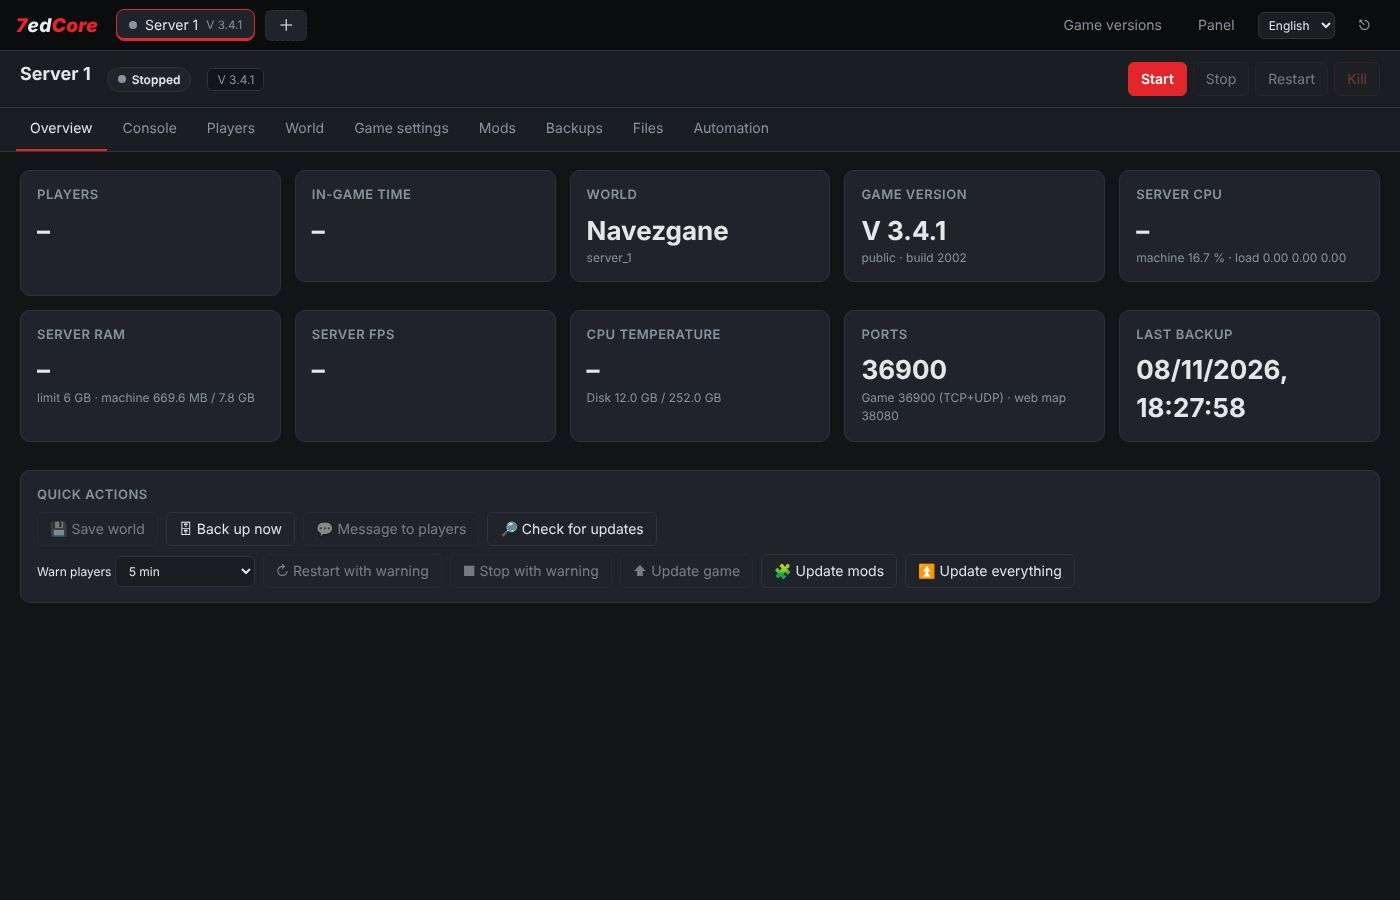
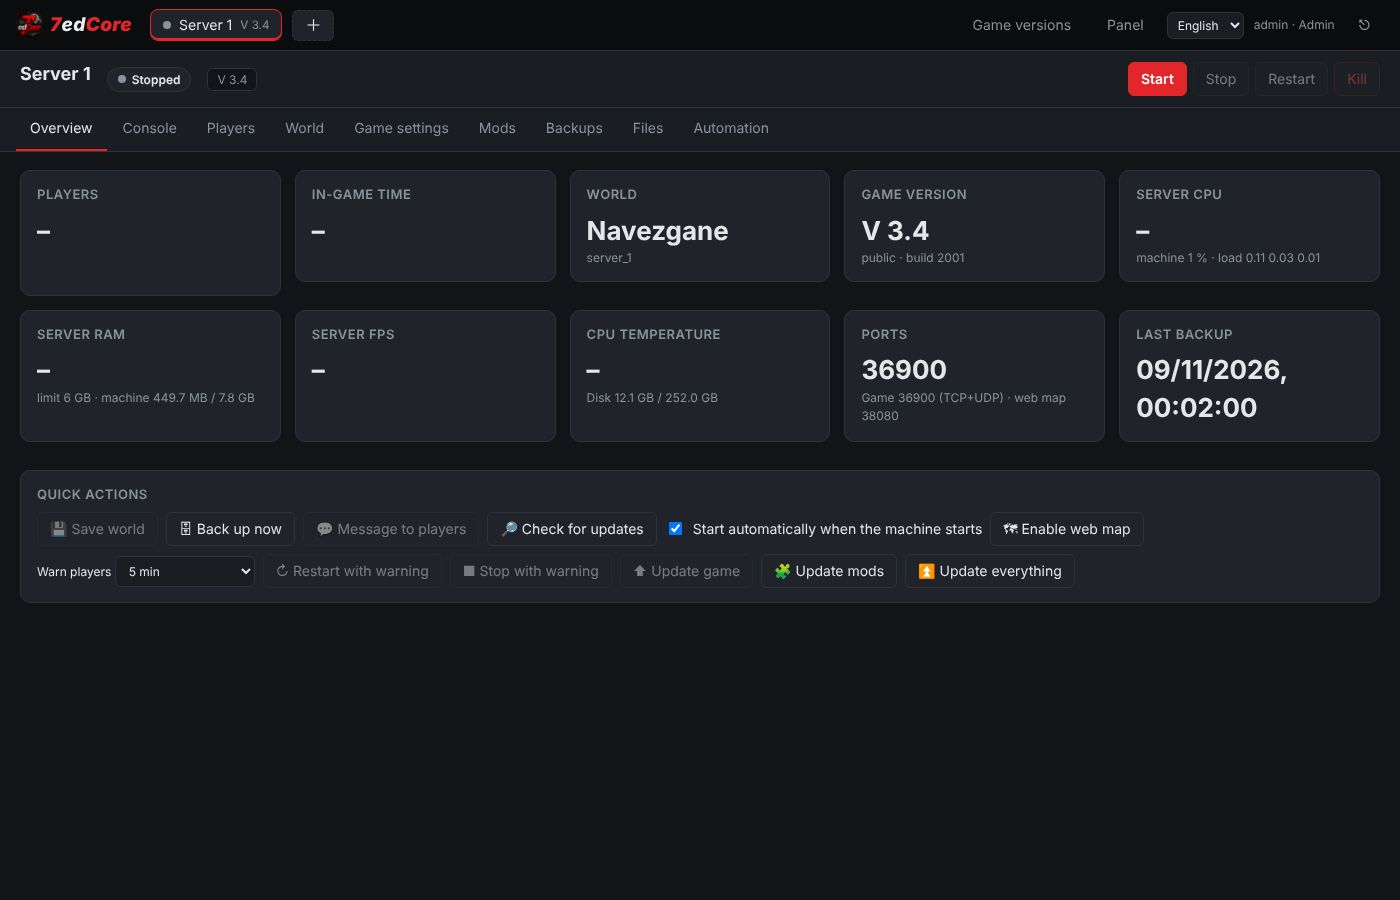
README: full feature overview, repository layout, new screenshots
Claude-Session: https://claude.ai/code/session_0181yVf7NmNxz71g3zciy3b8

diff --git a/README.md b/README.md
@@ -12,36 +12,81 @@ Several servers on one machine, each with its own game version, mods, backups an
 
 ## Features
 
-- **Several servers.** Each server gets its own tab and its own ports, saves, mods, backups and schedule. Use the **+** tab to add one.
-- **Game version per server.** Pick any Steam branch: `public`, `v3.4.0`, `v2.6`, `alpha21.2`, experimental, and so on. Installs are shared between servers.
-- **Save compatibility checks.** 7edCore tracks the game version each save was made with. It warns you before you load a save on a newer version, and it blocks a major-version mismatch or a downgrade unless you confirm it.
-- **Updates for the game and mods.**
-  - Policies: off, notify, hotfixes only, or hotfixes plus minor updates. Major updates are never installed automatically.
-  - Updates are installed only when nobody is online, only while the server is stopped, or at the next scheduled restart.
+### Servers
+- **Several servers on one machine.** Each server has its own tab, ports, saves, mods, backups, schedule and settings. Add one with **＋**. A new server can copy the settings of an existing one.
+- **Game version per server.** Run any Steam branch: `public`, `v3.4.0`, `v2.6`, `alpha21.2`, experimental and so on. Installs are shared between servers and managed on the **Game versions** page (install, update, verify, remove).
+- **Save compatibility checks.** 7edCore records the game version each save was made with. It warns before you load a save on a newer version, and it blocks a major-version jump or a downgrade unless you confirm.
+- **Overview.** Players, in-game time, world, CPU and RAM of the server and the machine, server FPS, chunks, zombies, CPU temperature, disk, ports, last backup and the web map link.
+- **Quick actions.**
+  - Save the world, back up now, or message players.
+  - Restart or stop with an in-game countdown (cancellable).
+  - Update the game, the mods, or both.
+  - Check for updates and enable the web map.
+  - **Start automatically when the machine starts.**
+- **Live console** with commands. **Player list** with kick, ban and promote to admin.
+- **Web map.** Turn on the game's web dashboard with one click and open the map from the panel. Every server has its own map port.
+
+### Game settings
+- **Three levels.** Basic covers world, difficulty, players and party XP range. Detailed has every gameplay option by category. Advanced covers networking, permissions and admin interfaces.
+- **V3 Sandbox Options.** All 165 options are editable directly, with labels and descriptions, so no external code generator is needed. You can paste or copy the `SandboxCode`. Older game versions use the classic `serverconfig.xml` settings.
+- **Raw editor** for `serverconfig.xml`, with XML validation and an automatic `.bak`.
+
+### Difficulty presets
+More than 50 presets. Each one opens a preview that lists every change before anything is applied.
+
+| Group | Presets |
+|---|---|
+| **Game difficulty** (exact values from the PC game) | Scavenger, Adventurer, Nomad, Warrior, True Survivalist, Insane, Standard (reset) |
+| **Zombies** (only zombies: health, damage, speed, senses, rage, block damage, density) | Easy, Medium, Hard, Extreme |
+| **Survival** (food, water, infection, gear wear, traders, death; XP stays generous so it never becomes a grind) | Easy, Medium, Hard, Extreme |
+| **Weapons & loot** | Gun Nut, Scavenged Arsenal (rare high-quality guns from day one that cannot be repaired), Disposable Guns, Ammo Famine |
+| **World threat** (game stage and spawns) | Quiet Countryside, Infested Cities, Wasteland Everywhere (tougher zombie types outside their biomes), Elite Apocalypse |
+| **Challenges** | Weekend Survivor, Loot Goblin, Bookworm, Builder's Paradise, Party Mode, Night Terrors, Horde Week, Siege Builders, Short Fuse, Black Market, Lost Knowledge, Feral Wasteland, Lootbag Only, Stone Age, Hardcore Survivor, Insane Apocalypse |
+| **Official presets of The Fun Pimps** (exact codes) | Almost Creative, Chibi Mode, Dumpster Diver, Legacy Survival, Disaster Film, Caveman Life, Dying World, Undead Matinee, Seven days Later, Madmoles Mayhem, Bite Club |
+
+- **Combine presets.** Add presets with **＋** and drag them into order in the side panel. The one on top wins wherever two presets set the same option. A typical stack is *Insane + Zombies: Extreme + Survival: Hard + Scavenged Arsenal*. The preview shows which preset each change comes from and what was overridden.
+- **Random challenge.** Pick Easy, Medium or Hard and get 3–5 balanced twists from a pool of 40. They can make the game harder, easier or just strange: sprinters, tough dead, black market, no repairs, moon gravity, headshots only and more. Reroll until you like it. Every roll has a seed, so it can be repeated.
+- **Challenge modlets.** Some challenges need more than settings. *Lootbag Only*, for example, empties world containers, so 7edCore generates a small server-side XML modlet for them. Players do not install anything.
+
+### Mods
+- Install from a ZIP (drag and drop, with upload progress), a GitHub repository or a URL.
+- **Find compatible version** picks the newest release made for your server's game version.
+- Updates keep your edited config files. If the author changed the same file, their version is saved next to yours as `*.new`.
+- Enable, disable or delete mods. Automatic or notify-only mod updates are set per server.
+
+### Worlds and configs
+- Choose a map, generate an RWG world (seed and size), or switch between saves. For each save you see the game version it was made with and last played with.
+- **Import a world** from a ZIP, for example a single-player save from `%APPDATA%\7DaysToDie`.
+- **Export and import a server config** (game settings, panel settings, admins), from your PC, from a file stored on the server, or from another server. Ports and data folders of the target server are kept.
+
+### Automation
+- **Scheduler.** Start, stop, restart, update-and-restart and backup rules per weekday, with in-game chat warnings before the action.
+- **Updates.**
+  - Game updates: off, notify, hotfixes, or hotfixes plus minor updates. Major updates are never automatic.
+  - Mod updates: off, notify or auto.
+  - When to install: only when nobody is online, only while stopped, or at the next scheduled restart.
   - A backup is taken before every update.
-- **Mods.**
-  - Install from a ZIP, a GitHub repository or a URL.
-  - *Find compatible version* picks the newest release made for your game version.
-  - Updates keep the files you edited. If the author also changed one of those files, their version is saved next to yours as `*.new`.
-- **Game settings in three levels.** Basic covers the world, difficulty, max players and party XP range. Detailed has every gameplay option, grouped by category. Advanced covers networking and permissions. On V3 and newer, all 165 Sandbox Options are editable directly, with no code generator needed, and the SandboxCode can be copied or pasted.
-- **Difficulty presets and challenges.** 50 presets in groups. Game difficulty has the exact Scavenger to Insane levels of the PC game. Zombies, Survival, Weapons & loot and World threat each come in easy to extreme. Challenges are listed below, and all 11 official presets from The Fun Pimps are included. The challenges are Weekend Survivor, Loot Goblin, Bookworm, Builder's Paradise, Party Mode, Night Terrors, Horde Week, Siege Builders, Short Fuse, Black Market, Lost Knowledge, Feral Wasteland, Lootbag Only, Stone Age, Hardcore Survivor and Insane Apocalypse. Each one shows a preview of every change before you apply it. Some challenges add a small server-side XML modlet, which players do not need to install.
-- **Combine presets.** Pick several presets, including random rolls, and drag them into order in the side panel. The one on top has priority and overrides the same settings of the presets below it. The preview shows where each change comes from and which settings were overridden.
-- **Random challenge.** Pick Easy, Medium or Hard and get 3–5 balanced twists. They can be harder, easier or just strange: sprinters, a black market, rare magazines, moon gravity, headshots only and more. Reroll until you like the result. Every roll has a seed, so you can recreate it.
-- **World management.**
-  - Choose a map, generate an RWG world, or switch between saves.
-  - Import a single-player world from a ZIP.
-  - Export or import a server's config: from your PC, from a file stored on the server, or from another server.
-- **Console and players.** Live console with commands. Kick, ban or promote players.
-- **Quick actions** for each server: save the world, back up now, restart or stop with an in-game countdown, update the game, mods or everything, and message players.
-- **Scheduler.** Start, stop, restart, update and backup rules per weekday. Players get warnings in the in-game chat before a stop or restart.
-- **Backups.** Automatic and manual backups, compressed with zstd on a reserved CPU core. A backup is also taken before every restore, update and import.
-- **Resources.** RAM limit (warn or restart gracefully), CPU core pinning, crash auto-restart, and a file manager with an editor.
-- **Users and roles.** Every user has their own account. Admins can do everything. Operators run the servers they are given: start and stop, console, quick actions and backups. Viewers can only watch. Logins are remembered for a year.
-- **Interface.** English and Czech.
-- **Self-updating.** When a new 7edCore release is published, your server updates itself, but only when nobody is playing.
-- **Safe shutdowns and power loss.** Game servers are saved and stopped on shutdown and resumed afterwards. A `7edcore` command line plugs into UPS software, and laptops and mini PCs get battery handling out of the box.
+- **Backups.** Automatic, on an interval with retention, and manual. They are zstd-compressed on a reserved CPU core. Restore is one click and backs up the current state first.
+- **Resources.** RAM limit (warn, or warn players and restart gracefully), CPU core pinning for the server and for backups, crash auto-restart, and the shutdown timeout.
+
+### Panel
+- **User accounts with roles.**
+  - **Admin** can do everything.
+  - **Operator** runs the servers assigned to them: start and stop, console, quick actions and backups.
+  - **Viewer** can only watch.
+  - Logins are remembered for a year. A lost password is reset with one command on the host.
+- **File manager** for the whole data folder: browse, edit, upload, download, extract ZIPs, rename and delete. Protected folders are guarded.
+- **English and Czech** interface, switchable in the corner. More languages can be added in one file.
+- **Clear feedback.** Clicked buttons show a spinner, a progress bar shows running requests, and uploads show a percentage. If the connection drops, a banner appears instead of error pop-ups.
+
+### Hosting
+- **One-line install** with Docker on any x86_64 Linux with systemd.
+- **Self-updating.** New releases are installed automatically when nobody is playing. You can also pin any release from GitHub, or choose notify only or off.
+- **Safe shutdowns.** Game servers are saved and stopped before the machine shuts down and come back afterwards.
+- **Power loss and UPS.** The `7edcore` command (`save`, `stop-all`, `resume`, …) hooks into NUT or apcupsd. Laptops and mini PCs get battery handling automatically.
 
 <p align="center"><img src="docs/screenshot-overview.jpg" width="49%"> <img src="docs/screenshot-settings.jpg" width="49%"></p>
+<p align="center"><img src="docs/screenshot-users.jpg" width="60%"></p>
 
 ## Install
 
@@ -157,6 +202,16 @@ tests/run_server.sh /tmp/7edcore-data 18200        # panel with a fake SteamCMD 
 python3 tests/api_test.py http://127.0.0.1:18200 testpass123
 python3 tests/ui_test.py  http://127.0.0.1:18200 testpass123 /tmp/shots
 ```
+
+Repository layout:
+
+| Path | What |
+|---|---|
+| `app/` | The panel: Python and aiohttp backend (`sevenedcore/`), web UI (`static/`), the `7edcore` command (`ctl.py`) |
+| `deploy/` | Docker Compose file, host updater, `7edcore` host command, battery watcher, UPS examples |
+| `tests/` | Fake SteamCMD and fake game server plus API and UI tests. GitHub Actions runs them before every image and release is built. |
+| `tools/` | `sandbox_extract.py`, which regenerates the Sandbox Option tables from a new game version |
+| `install.sh` | The one-line installer |
 
 The backend is Python and aiohttp, in `app/sevenedcore`. The frontend is plain JS with no build step, in `app/static`. Translations live in `app/static/i18n.js`. To add a language, copy the `en` block.
 
